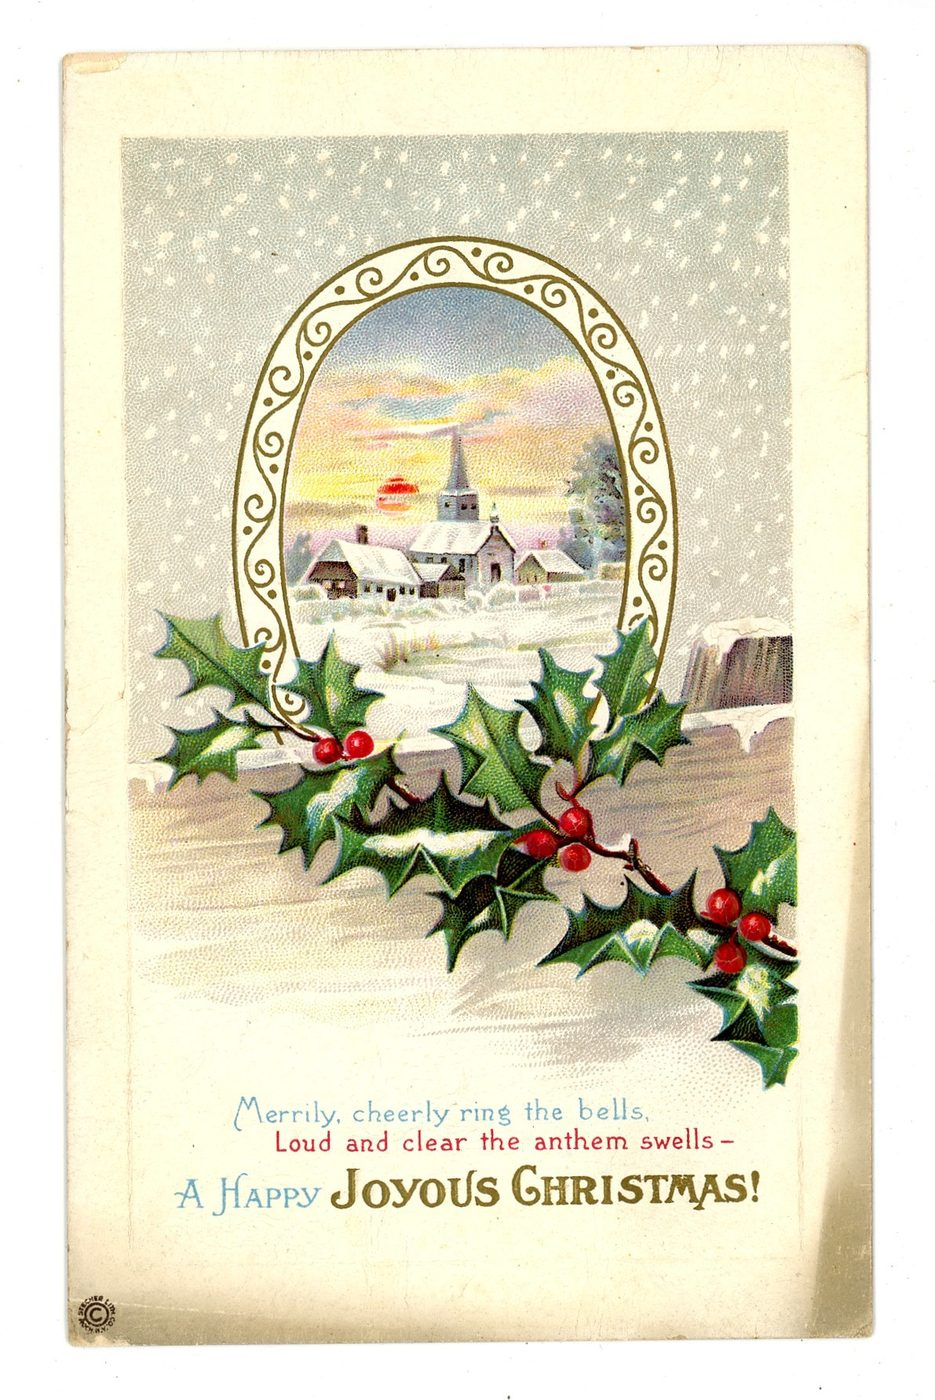
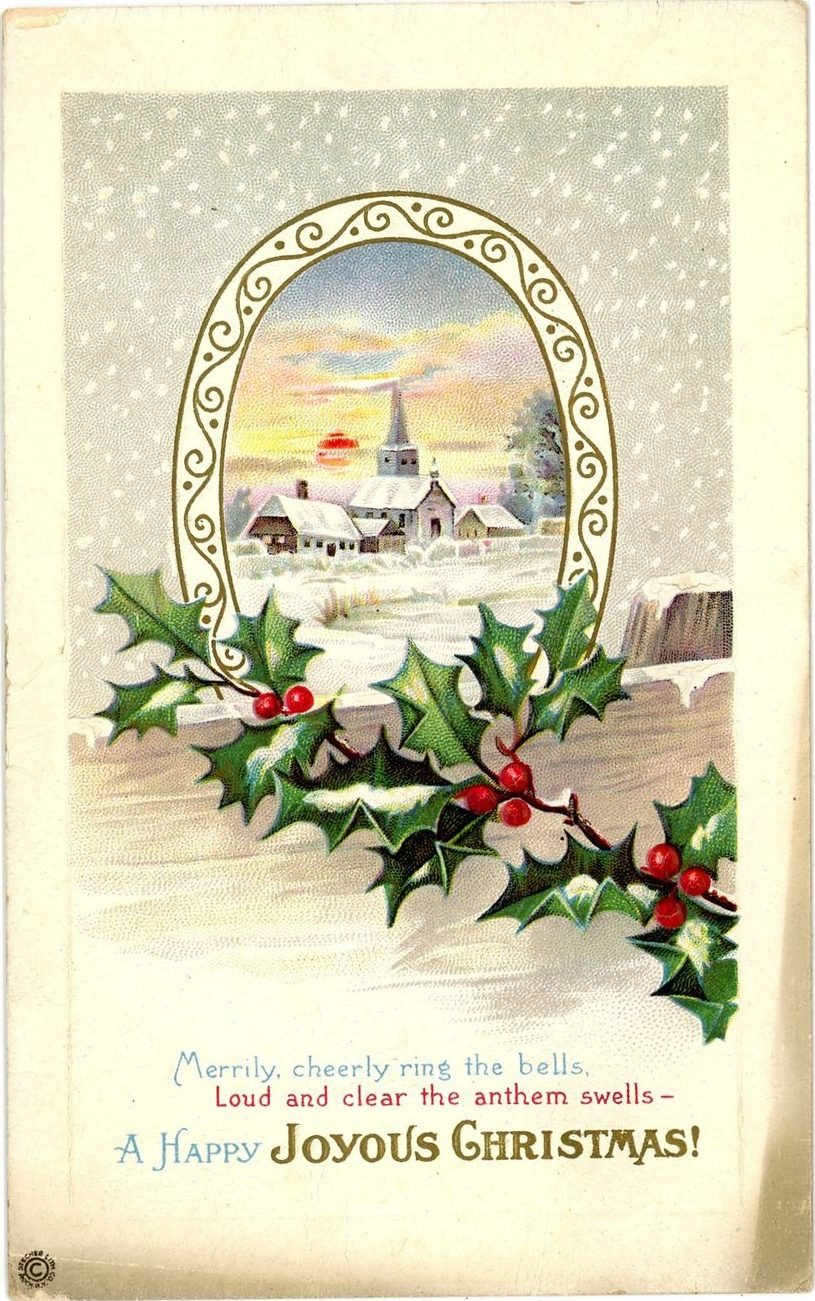
Postcards: tall cards fit their own shape, scanner borders trimmed

diff --git a/postcard.html b/postcard.html
@@ -71,16 +71,17 @@
   /* the postcard rack and the card itself */
   .rack { list-style: none; padding: 0; margin: 18px 0 0; display: grid; grid-template-columns: repeat(auto-fill, minmax(150px, 1fr)); gap: 14px; }
   .rack li { margin: 0; }
-  .rack button { all: unset; cursor: pointer; display: block; width: 100%; aspect-ratio: 1; background: rgba(31,27,23,.06); }
+  .rack button { all: unset; cursor: pointer; display: block; width: 100%; aspect-ratio: 1; }
   .rack img { width: 100%; height: 100%; object-fit: contain; display: block; filter: drop-shadow(0 2px 2px rgba(0,0,0,.35)); transition: transform .15s ease; }
   .rack button:hover img, .rack button:focus-visible img { transform: rotate(-1.5deg) scale(1.04); }
   .rack button:focus-visible { outline: 3px solid var(--honey); outline-offset: 2px; }
-  .card { margin: 18px auto 0; max-width: 680px; perspective: 1600px; }
+  /* the card is exactly the shape of the picture, tall or wide, so there's no empty frame around it */
+  .card { margin: 18px auto 0; width: 100%; max-width: min(680px, calc(70vh * var(--ar, 1.5))); perspective: 1600px; }
   .card-in { position: relative; display: grid; transition: transform .8s ease; transform-style: preserve-3d; }
   .card.flipped .card-in { transform: rotateY(180deg); }
   .face { grid-area: 1 / 1; backface-visibility: hidden; -webkit-backface-visibility: hidden; box-shadow: 0 6px 18px rgba(0,0,0,.35); }
-  .front { background: #f4ecd8; display: flex; align-items: center; justify-content: center; min-height: 280px; }
-  .front img { display: block; max-width: 100%; max-height: 70vh; }
+  .front { background: #f4ecd8; display: block; }
+  .front img { display: block; width: 100%; height: auto; }
   .pc-back { transform: rotateY(180deg); }
   .pc-back, .compose-back { background: #f6efdc url("art/newsprint.jpg") 0 0 / 640px 640px; position: relative; display: grid; grid-template-columns: 1.25fr 1fr; gap: 0; padding: 22px 22px 20px; min-height: 340px; color: #2b2520; }
   .pc-back::before, .compose-back::before { content: ""; position: absolute; top: 22px; bottom: 22px; left: 55.5%; border-left: 1.5px solid rgba(43,37,32,.45); }
@@ -198,7 +199,7 @@
   </main>
 </div>
 <script src="config.js?v=20261105a"></script>
-<script src="art/postcards/postcards.js?v=1"></script>
+<script src="art/postcards/postcards.js?v=2"></script>
 <script src="ticker.js?v=4"></script>
 <script src="socials.js?v=2"></script>
 <script>
@@ -226,7 +227,7 @@
     b.addEventListener("click", function () { write(p); });
   });
   function write(p) {
-    cur = p; $("w-img").src = IMG + p.f; $("w-img").alt = p.title;
+    cur = p; $("w-img").src = IMG + p.f; $("w-img").alt = p.title; $("w-img").closest(".card").style.setProperty("--ar", p.w / p.h);
     document.querySelectorAll(".pm-date").forEach(function (e) { if (e.id !== "g-date") e.textContent = stamp(); });
     $("w-note").textContent = ""; show("v-write"); $("w-msg").focus();
   }
@@ -259,7 +260,7 @@
   // opening a postcard someone sent
   function receive(o) {
     var p = byId[o.c]; if (!p || BAD.test((o.m || "") + " " + (o.t || "") + " " + (o.f || ""))) return false;
-    $("g-img").src = IMG + p.f; $("g-img").alt = p.title;
+    $("g-img").src = IMG + p.f; $("g-img").alt = p.title; $("g-card").style.setProperty("--ar", p.w / p.h);
     $("g-msg").textContent = String(o.m || "").slice(0, 280);
     $("g-to").textContent = String(o.t || "").slice(0, 40); $("g-from").textContent = String(o.f || "").slice(0, 40);
     $("g-date").textContent = stamp(/^\d{4}-\d\d-\d\d$/.test(o.d || "") ? o.d : "");

diff --git a/art/postcards/postcards.js b/art/postcards/postcards.js
@@ -33,8 +33,8 @@ window.POSTCARDS = [
 "f": "pc-1923-christmas-greeting-shepherd-peace-on-earth.jpg",
 "title": "Christmas greeting shepherd peace on earth",
 "year": "1923",
-"w": 947,
-"h": 1400,
+"w": 836,
+"h": 1304,
 "item": "https://archive.org/details/1923-12-21-obverse-raymond-mc-cormick"
 },
 {
@@ -42,8 +42,8 @@ window.POSTCARDS = [
 "f": "pc-1923-christmas-greeting-snowy-cottage.jpg",
 "title": "Christmas greeting snowy cottage",
 "year": "1923",
-"w": 927,
-"h": 1400,
+"w": 843,
+"h": 1306,
 "item": "https://archive.org/details/1923-12-20-obverse-balzora-scofield"
 },
 {
@@ -51,8 +51,8 @@ window.POSTCARDS = [
 "f": "pc-1923-christmas-greetings-candelabra-poinsettias.jpg",
 "title": "Christmas greetings candelabra poinsettias",
 "year": "1923",
-"w": 900,
-"h": 1400,
+"w": 851,
+"h": 1338,
 "item": "https://archive.org/details/1923-12-04-reverse"
 },
 {
@@ -69,8 +69,8 @@ window.POSTCARDS = [
 "f": "pc-1923-christmas-nativity-stable.jpg",
 "title": "Christmas nativity stable",
 "year": "1923",
-"w": 951,
-"h": 1400,
+"w": 843,
+"h": 1308,
 "item": "https://archive.org/details/1923-12-20-obverse-ida-estella"
 },
 {
@@ -78,8 +78,8 @@ window.POSTCARDS = [
 "f": "pc-1924-christmas-snowy-bridge-holly.jpg",
 "title": "Christmas snowy bridge holly",
 "year": "1924",
-"w": 929,
-"h": 1400,
+"w": 836,
+"h": 1306,
 "item": "https://archive.org/details/1924-12-24-obverse"
 },
 {
@@ -105,8 +105,8 @@ window.POSTCARDS = [
 "f": "pc-1929-christmastide-carolers-with-lantern.jpg",
 "title": "Christmastide carolers with lantern",
 "year": "1929",
-"w": 944,
-"h": 1400,
+"w": 816,
+"h": 1290,
 "item": "https://archive.org/details/1929-12-21-obverse"
 },
 {
@@ -169,7 +169,7 @@ window.POSTCARDS = [
 "title": "1941 buon natale nativity manger",
 "year": "1941",
 "w": 897,
-"h": 1400,
+"h": 1283,
 "item": "https://archive.org/details/corr.fam-036-mscr-1941-m-r"
 },
 {
@@ -276,8 +276,8 @@ window.POSTCARDS = [
 "f": "pc-1910-merry-christmas-pine-cones-snowy-cottage.jpg",
 "title": "Merry christmas pine cones snowy cottage",
 "year": "1910",
-"w": 1400,
-"h": 920,
+"w": 1299,
+"h": 826,
 "item": "https://archive.org/details/1910-12-20-obverse"
 },
 {
@@ -285,8 +285,8 @@ window.POSTCARDS = [
 "f": "pc-1910s-joyous-christmas-snowy-church-village.jpg",
 "title": "Joyous christmas snowy church village",
 "year": "1910s",
-"w": 935,
-"h": 1400,
+"w": 815,
+"h": 1301,
 "item": "https://archive.org/details/undated-beulah-kerschner-obverse"
 },
 {
@@ -294,8 +294,8 @@ window.POSTCARDS = [
 "f": "pc-1912-christmas-greetings-snowy-village-holly.jpg",
 "title": "Christmas greetings snowy village holly",
 "year": "1912",
-"w": 926,
-"h": 1400,
+"w": 864,
+"h": 1353,
 "item": "https://archive.org/details/1912-12-21-obverse"
 },
 {
@@ -303,8 +303,8 @@ window.POSTCARDS = [
 "f": "pc-1912-happy-new-year-snowy-lane.jpg",
 "title": "Happy new year snowy lane",
 "year": "1912",
-"w": 902,
-"h": 1400,
+"w": 861,
+"h": 1345,
 "item": "https://archive.org/details/1912-12-27-obverse"
 },
 {
@@ -312,8 +312,8 @@ window.POSTCARDS = [
 "f": "pc-1915-merry-christmas-snowy-village-millpond.jpg",
 "title": "Merry christmas snowy village millpond",
 "year": "1915",
-"w": 1400,
-"h": 947,
+"w": 1307,
+"h": 860,
 "item": "https://archive.org/details/1915-12-23-obverse"
 },
 {
@@ -321,7 +321,7 @@ window.POSTCARDS = [
 "f": "pc-1915-still-growing-winter-sunset.jpg",
 "title": "Still growing winter sunset",
 "year": "1915",
-"w": 1400,
+"w": 1336,
 "h": 884,
 "item": "https://archive.org/details/1915-12-23-obverse-louise-wiles"
 },

diff --git a/c/1923-christmas-greeting-shepherd-peace-on-earth.html b/c/1923-christmas-greeting-shepherd-peace-on-earth.html
@@ -11,8 +11,8 @@
 <meta property="og:description" content="Someone sent you a real antique postcard from The Bee's Knees. Open it and turn it over to read the back.">
 <meta property="og:url" content="https://thebeesknees.fm/c/1923-christmas-greeting-shepherd-peace-on-earth.html">
 <meta property="og:image" content="https://thebeesknees.fm/art/postcards/pc-1923-christmas-greeting-shepherd-peace-on-earth.jpg">
-<meta property="og:image:width" content="947">
-<meta property="og:image:height" content="1400">
+<meta property="og:image:width" content="836">
+<meta property="og:image:height" content="1304">
 <meta property="og:image:alt" content="An antique postcard: Christmas greeting shepherd peace on earth, 1923">
 <meta name="twitter:card" content="summary_large_image">
 <link rel="icon" href="../art/favicon.png?v=2" type="image/png">

diff --git a/c/1923-christmas-greetings-candelabra-poinsettias.html b/c/1923-christmas-greetings-candelabra-poinsettias.html
@@ -11,8 +11,8 @@
 <meta property="og:description" content="Someone sent you a real antique postcard from The Bee's Knees. Open it and turn it over to read the back.">
 <meta property="og:url" content="https://thebeesknees.fm/c/1923-christmas-greetings-candelabra-poinsettias.html">
 <meta property="og:image" content="https://thebeesknees.fm/art/postcards/pc-1923-christmas-greetings-candelabra-poinsettias.jpg">
-<meta property="og:image:width" content="900">
-<meta property="og:image:height" content="1400">
+<meta property="og:image:width" content="851">
+<meta property="og:image:height" content="1338">
 <meta property="og:image:alt" content="An antique postcard: Christmas greetings candelabra poinsettias, 1923">
 <meta name="twitter:card" content="summary_large_image">
 <link rel="icon" href="../art/favicon.png?v=2" type="image/png">

diff --git a/c/1910-merry-christmas-pine-cones-snowy-cottage.html b/c/1910-merry-christmas-pine-cones-snowy-cottage.html
@@ -11,8 +11,8 @@
 <meta property="og:description" content="Someone sent you a real antique postcard from The Bee's Knees. Open it and turn it over to read the back.">
 <meta property="og:url" content="https://thebeesknees.fm/c/1910-merry-christmas-pine-cones-snowy-cottage.html">
 <meta property="og:image" content="https://thebeesknees.fm/art/postcards/pc-1910-merry-christmas-pine-cones-snowy-cottage.jpg">
-<meta property="og:image:width" content="1400">
-<meta property="og:image:height" content="920">
+<meta property="og:image:width" content="1299">
+<meta property="og:image:height" content="826">
 <meta property="og:image:alt" content="An antique postcard: Merry christmas pine cones snowy cottage, 1910">
 <meta name="twitter:card" content="summary_large_image">
 <link rel="icon" href="../art/favicon.png?v=2" type="image/png">

diff --git a/c/1912-christmas-greetings-snowy-village-holly.html b/c/1912-christmas-greetings-snowy-village-holly.html
@@ -11,8 +11,8 @@
 <meta property="og:description" content="Someone sent you a real antique postcard from The Bee's Knees. Open it and turn it over to read the back.">
 <meta property="og:url" content="https://thebeesknees.fm/c/1912-christmas-greetings-snowy-village-holly.html">
 <meta property="og:image" content="https://thebeesknees.fm/art/postcards/pc-1912-christmas-greetings-snowy-village-holly.jpg">
-<meta property="og:image:width" content="926">
-<meta property="og:image:height" content="1400">
+<meta property="og:image:width" content="864">
+<meta property="og:image:height" content="1353">
 <meta property="og:image:alt" content="An antique postcard: Christmas greetings snowy village holly, 1912">
 <meta name="twitter:card" content="summary_large_image">
 <link rel="icon" href="../art/favicon.png?v=2" type="image/png">

diff --git a/c/1910s-joyous-christmas-snowy-church-village.html b/c/1910s-joyous-christmas-snowy-church-village.html
@@ -11,8 +11,8 @@
 <meta property="og:description" content="Someone sent you a real antique postcard from The Bee's Knees. Open it and turn it over to read the back.">
 <meta property="og:url" content="https://thebeesknees.fm/c/1910s-joyous-christmas-snowy-church-village.html">
 <meta property="og:image" content="https://thebeesknees.fm/art/postcards/pc-1910s-joyous-christmas-snowy-church-village.jpg">
-<meta property="og:image:width" content="935">
-<meta property="og:image:height" content="1400">
+<meta property="og:image:width" content="815">
+<meta property="og:image:height" content="1301">
 <meta property="og:image:alt" content="An antique postcard: Joyous christmas snowy church village, 1910s">
 <meta name="twitter:card" content="summary_large_image">
 <link rel="icon" href="../art/favicon.png?v=2" type="image/png">

diff --git a/c/1915-merry-christmas-snowy-village-millpond.html b/c/1915-merry-christmas-snowy-village-millpond.html
@@ -11,8 +11,8 @@
 <meta property="og:description" content="Someone sent you a real antique postcard from The Bee's Knees. Open it and turn it over to read the back.">
 <meta property="og:url" content="https://thebeesknees.fm/c/1915-merry-christmas-snowy-village-millpond.html">
 <meta property="og:image" content="https://thebeesknees.fm/art/postcards/pc-1915-merry-christmas-snowy-village-millpond.jpg">
-<meta property="og:image:width" content="1400">
-<meta property="og:image:height" content="947">
+<meta property="og:image:width" content="1307">
+<meta property="og:image:height" content="860">
 <meta property="og:image:alt" content="An antique postcard: Merry christmas snowy village millpond, 1915">
 <meta name="twitter:card" content="summary_large_image">
 <link rel="icon" href="../art/favicon.png?v=2" type="image/png">

diff --git a/c/1929-christmastide-carolers-with-lantern.html b/c/1929-christmastide-carolers-with-lantern.html
@@ -11,8 +11,8 @@
 <meta property="og:description" content="Someone sent you a real antique postcard from The Bee's Knees. Open it and turn it over to read the back.">
 <meta property="og:url" content="https://thebeesknees.fm/c/1929-christmastide-carolers-with-lantern.html">
 <meta property="og:image" content="https://thebeesknees.fm/art/postcards/pc-1929-christmastide-carolers-with-lantern.jpg">
-<meta property="og:image:width" content="944">
-<meta property="og:image:height" content="1400">
+<meta property="og:image:width" content="816">
+<meta property="og:image:height" content="1290">
 <meta property="og:image:alt" content="An antique postcard: Christmastide carolers with lantern, 1929">
 <meta name="twitter:card" content="summary_large_image">
 <link rel="icon" href="../art/favicon.png?v=2" type="image/png">

diff --git a/c/1923-christmas-greeting-snowy-cottage.html b/c/1923-christmas-greeting-snowy-cottage.html
@@ -11,8 +11,8 @@
 <meta property="og:description" content="Someone sent you a real antique postcard from The Bee's Knees. Open it and turn it over to read the back.">
 <meta property="og:url" content="https://thebeesknees.fm/c/1923-christmas-greeting-snowy-cottage.html">
 <meta property="og:image" content="https://thebeesknees.fm/art/postcards/pc-1923-christmas-greeting-snowy-cottage.jpg">
-<meta property="og:image:width" content="927">
-<meta property="og:image:height" content="1400">
+<meta property="og:image:width" content="843">
+<meta property="og:image:height" content="1306">
 <meta property="og:image:alt" content="An antique postcard: Christmas greeting snowy cottage, 1923">
 <meta name="twitter:card" content="summary_large_image">
 <link rel="icon" href="../art/favicon.png?v=2" type="image/png">

diff --git a/c/1924-christmas-snowy-bridge-holly.html b/c/1924-christmas-snowy-bridge-holly.html
@@ -11,8 +11,8 @@
 <meta property="og:description" content="Someone sent you a real antique postcard from The Bee's Knees. Open it and turn it over to read the back.">
 <meta property="og:url" content="https://thebeesknees.fm/c/1924-christmas-snowy-bridge-holly.html">
 <meta property="og:image" content="https://thebeesknees.fm/art/postcards/pc-1924-christmas-snowy-bridge-holly.jpg">
-<meta property="og:image:width" content="929">
-<meta property="og:image:height" content="1400">
+<meta property="og:image:width" content="836">
+<meta property="og:image:height" content="1306">
 <meta property="og:image:alt" content="An antique postcard: Christmas snowy bridge holly, 1924">
 <meta name="twitter:card" content="summary_large_image">
 <link rel="icon" href="../art/favicon.png?v=2" type="image/png">

diff --git a/c/1912-happy-new-year-snowy-lane.html b/c/1912-happy-new-year-snowy-lane.html
@@ -11,8 +11,8 @@
 <meta property="og:description" content="Someone sent you a real antique postcard from The Bee's Knees. Open it and turn it over to read the back.">
 <meta property="og:url" content="https://thebeesknees.fm/c/1912-happy-new-year-snowy-lane.html">
 <meta property="og:image" content="https://thebeesknees.fm/art/postcards/pc-1912-happy-new-year-snowy-lane.jpg">
-<meta property="og:image:width" content="902">
-<meta property="og:image:height" content="1400">
+<meta property="og:image:width" content="861">
+<meta property="og:image:height" content="1345">
 <meta property="og:image:alt" content="An antique postcard: Happy new year snowy lane, 1912">
 <meta name="twitter:card" content="summary_large_image">
 <link rel="icon" href="../art/favicon.png?v=2" type="image/png">
